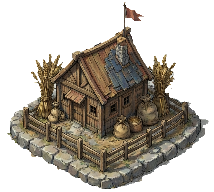
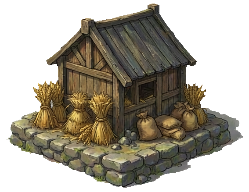
据点素材与地图同源+信息牌重做（第七十二次修订·本地）：i2i锚改实机地图裁片；信息牌改木纹横幅（归属色内线+缎带切口+金铆钉）；建筑/主城补名牌；审计等真就绪+复检

diff --git a/卡牌建城demo/js/sandbox.js b/卡牌建城demo/js/sandbox.js
@@ -98,6 +98,13 @@ const Sandbox = {
       img.onerror = () => { /* 加载失败 → 该建筑永久降级为 emoji，不重试 */ };
       img.src = CFG.assets.dir + CFG.assets.files[k];
     });
+    /* ★ 第七十二次修订：木纹贴图 —— 地图信息牌与顶栏同源（createPattern 平铺） */
+    this.woodImg = null;
+    {
+      const wi = new global.Image();
+      wi.onload = () => { this.woodImg = wi; };
+      wi.src = 'assets/ui/topbar/topbar-wood-tile.png';
+    }
     /* ★ 第七十一次修订：资源点据点素材（透明底 PNG，缺失时降级 emoji） */
     this.resSprites = {};
     const RC = CFG.resourceCamps;
@@ -1325,12 +1332,75 @@ const Sandbox = {
   },
 
   /** 地图文字标签（最后绘制 + 深色底板）：保证不被建筑/部队盖住（用户报障：遮挡） */
+  /**
+   * ★ 第七十二次修订：地图信息牌（参考率土/三战的"深色薄片+归属色+等级数字"，
+   *   但材质用我们自己的木纹 + 金色内线，与顶栏/按钮同一套视觉语言）。
+   * 形状：两端缎带切口；归属 = 金色(我方)/红色(敌方)/米白(中立) 内线 + 文字色。
+   */
+  drawBannerPlate(ctx, cx, topY, w, h, owner) {
+    const notch = Math.min(h * 0.42, 9);
+    const x = cx - w / 2;
+    ctx.save();
+    ctx.beginPath();
+    ctx.moveTo(x + notch, topY);
+    ctx.lineTo(x + w - notch, topY);
+    ctx.lineTo(x + w, topY + h * 0.5);
+    ctx.lineTo(x + w - notch, topY + h);
+    ctx.lineTo(x + notch, topY + h);
+    ctx.lineTo(x, topY + h * 0.5);
+    ctx.closePath();
+    if (this.woodImg) {
+      ctx.fillStyle = ctx.createPattern(this.woodImg, 'repeat');
+      ctx.fill();
+    } else {
+      ctx.fillStyle = '#6b5230';
+      ctx.fill();
+    }
+    ctx.fillStyle = 'rgba(12,8,3,0.38)';       // 轻压木纹：纹理可见，文字仍清晰
+    ctx.fill();
+    ctx.strokeStyle = 'rgba(22,13,4,0.95)'; ctx.lineWidth = Math.max(1.5, h * 0.10);
+    ctx.stroke();                              // 深色外框
+    ctx.strokeStyle = owner === 'p1' ? 'rgba(255,214,90,.95)'
+                    : owner === 'p2' ? 'rgba(255,150,140,.9)'
+                    : 'rgba(236,212,158,.8)';
+    ctx.lineWidth = 1.1;
+    ctx.stroke();                              // 归属色内线
+    /* 两端缎带切口尖上各一颗金铆钉 —— 精致度的小细节 */
+    ctx.fillStyle = '#ffd98a';
+    [[x + notch, topY + h / 2], [x + w - notch, topY + h / 2]].forEach(function (p) {
+      ctx.beginPath(); ctx.arc(p[0], p[1], Math.max(1.2, h * 0.07), 0, Math.PI * 2); ctx.fill();
+    });
+    ctx.restore();
+  },
+
   drawMapLabels(ctx, T) {
     const G = global.Game;
     if (!G || !G.state) return;
+    const self = this;                            // forEach 回调里要用 this.drawBannerPlate
     ctx.save();
     ctx.textAlign = 'center'; ctx.textBaseline = 'middle';
     ctx.font = '700 ' + Math.round(T * 0.2) + 'px "PingFang SC","Microsoft YaHei",sans-serif';
+    /* ★ 第七十二次修订：建筑/主城也补上名牌（此前贴图路径只有 Lv 角标没有名称，
+     *   率土/三战的地图上每个对象都标名称 + 等级） */
+    const bFont = '"PingFang SC","Microsoft YaHei",sans-serif';
+    const drawBuildPlate = function (b, name, level, owner) {
+      const fp = G.footOf(b.type);
+      const cx = (b.gx + fp.w / 2) * T, topY = (b.gy + fp.h) * T + T * 0.06;
+      const txt = level ? name + '  Lv' + level : name;
+      ctx.font = '700 ' + Math.round(T * 0.21) + 'px ' + bFont;
+      const w = Math.max(70, ctx.measureText(txt).width) + T * 0.34;
+      const h = T * 0.36;
+      this.drawBannerPlate(ctx, cx, topY, w, h, owner);
+      ctx.fillStyle = owner === 'p1' ? '#ffd76a' : (owner === 'p2' ? '#ff9c9c' : '#f4f1e4');
+      ctx.fillText(txt, cx, topY + h * 0.62);
+    };
+    for (const k in G.state.buildings) {
+      const b = G.state.buildings[k];
+      drawBuildPlate.call(this, b, CFG.buildings[b.type].name, b.level, (b.owner || 'p1') === 'p1' ? 'p1' : 'p2');
+    }
+    drawBuildPlate.call(this, G.state.castle, '主城', G.state.castleLevel, 'p1');
+    drawBuildPlate.call(this, G.enemyCastle(), '敌方主城', 1, 'p2');
+
     CFG.map.resources.forEach(function (r) {
       const owner = G.resourceOwnerOf(r);
       // 未占领的资源点显示剩余守军——否则玩家不知道派兵过去为什么没效果
@@ -1341,20 +1411,16 @@ const Sandbox = {
         : ('+' + r.yield + (r.res === 'food' ? ' 粮/Tick' : ' ⚡/Tick'));
       const l1 = (owner ? (owner === 'p1' ? '★ ' : '✖ ') : '') + r.name;
       const l2 = yieldTxt + (!owner && guard > 0 ? ' · 守军' + guard : '');
-      const x = (r.gx + 0.5) * T, y = (r.gy + 1.02) * T;
+      const x = (r.gx + 0.5) * T, y = (r.gy + 1.00) * T;
       ctx.font = '700 ' + Math.round(T * 0.20) + 'px "PingFang SC","Microsoft YaHei",sans-serif';
-      const w = Math.max(64, ctx.measureText(l1).width, ctx.measureText(l2).width) + 14;
-      const h = T * 0.52;
-      ctx.fillStyle = 'rgba(6,10,16,0.78)';
-      ctx.fillRect(x - w / 2, y - T * 0.16, w, h);
-      ctx.strokeStyle = owner === 'p1' ? 'rgba(255,210,63,.55)' : (owner === 'p2' ? 'rgba(255,138,138,.5)' : 'rgba(255,255,255,.28)');
-      ctx.lineWidth = 1;
-      ctx.strokeRect(x - w / 2 + 0.5, y - T * 0.16 + 0.5, w - 1, h - 1);
-      ctx.fillStyle = owner === 'p1' ? '#ffd23f' : (owner === 'p2' ? '#ff8a8a' : '#f2f6ff');
-      ctx.fillText(l1, x, y);
+      const w = Math.max(76, ctx.measureText(l1).width, ctx.measureText(l2).width) + T * 0.30;
+      const h = T * 0.54;
+      self.drawBannerPlate(ctx, x, y - T * 0.17, w, h, owner);
+      ctx.fillStyle = owner === 'p1' ? '#ffd76a' : (owner === 'p2' ? '#ff9c9c' : '#f4f1e4');
+      ctx.fillText(l1, x, y + T * 0.03);
       ctx.font = Math.round(T * 0.18) + 'px "PingFang SC","Microsoft YaHei",sans-serif';
-      ctx.fillStyle = '#dfe8f4';
-      ctx.fillText(l2, x, y + T * 0.21);
+      ctx.fillStyle = '#e8dcc0';
+      ctx.fillText(l2, x, y + T * 0.24);
     });
     ctx.restore();
   },

diff --git a/卡牌建城demo/test/_layout_audit.js b/卡牌建城demo/test/_layout_audit.js
@@ -12,7 +12,15 @@ const DIR = 'D:/工程/自研/卡牌建城demo/test/';
   async function auditPage(viewport, tag) {
     const page = await browser.newPage({ viewport, deviceScaleFactor: 1 });
     await page.goto('http://127.0.0.1:8124/index.html?play=1', { waitUntil: 'load' });
-    await page.waitForTimeout(1500);
+    // ★ 等"真就绪"（引擎起好 + 沙盘画布有尺寸 + 字体就位）而不是死等固定时长 ——
+    //   门禁里紧跟着 fulltest 跑，机器负载高时固定 1500ms 会偶发误报。
+    await page.waitForFunction(() => {
+      const cv = document.getElementById('sandbox');
+      return !!(window.Game && window.Game.state && window.Sandbox &&
+                 cv && cv.clientWidth > 100 && cv.height > 100);
+    }, { timeout: 15000 });
+    await page.evaluate(() => document.fonts ? document.fonts.ready : null);
+    await page.waitForTimeout(400);
     await page.evaluate(() => {
       if (window.Tutorial && Tutorial.hide) Tutorial.hide();
       document.getElementById('menu').classList.add('hidden');
@@ -70,10 +78,22 @@ const DIR = 'D:/工程/自研/卡牌建城demo/test/';
     await page.close();
     return { tag, report };
   }
-  const results = [];
-  results.push(await auditPage({ width: 1280, height: 720 }, 'desktop'));
-  results.push(await auditPage({ width: 844, height: 390 }, 'mobile-landscape'));
-  let total = 0;
+  /* ★ 偶发误报不复现即通过（与"偶发失败必须查根因"同一纪律：先复现，再判） */
+  async function runAll() {
+    const rs = [];
+    rs.push(await auditPage({ width: 1280, height: 720 }, 'desktop'));
+    rs.push(await auditPage({ width: 844, height: 390 }, 'mobile-landscape'));
+    return rs;
+  }
+  let results = await runAll();
+  let total = results.reduce(function (n, r) {
+    return n + r.report.reduce(function (m, s) { return m + s.problems.length; }, 0);
+  }, 0);
+  if (total > 0) {
+    console.log('（第一轮发现 ' + total + ' 处，复检确认……）');
+    results = await runAll();
+  }
+  total = 0;
   results.forEach(function (r) {
     r.report.forEach(function (s) {
       total += s.problems.length;

diff --git a/卡牌建城demo/test/_make_camp.js b/卡牌建城demo/test/_make_camp.js
@@ -6,9 +6,9 @@ const { chromium } = require('playwright-core');
 const CHROME = 'C:/Program Files (x86)/Microsoft/Edge/Application/msedge.exe';
 const DIR = 'D:/工程/自研/卡牌建城demo/';
 const JOBS = [
-  { src: 'assets/map/_src-camp-food.png',      out: 'assets/map/camp-food.png' },
-  { src: 'assets/map/_src-camp-energy.png',    out: 'assets/map/camp-energy.png' },
-  { src: 'assets/map/_src-camp-logistics.png', out: 'assets/map/camp-logistics.png' },
+  { src: 'assets/map/_src2-camp-food.png',      out: 'assets/map/camp-food.png' },
+  { src: 'assets/map/_src2-camp-energy.png',    out: 'assets/map/camp-energy.png' },
+  { src: 'assets/map/_src2-camp-logistics.png', out: 'assets/map/camp-logistics.png' },
 ];
 const TH = 42, ERODE = 2, OUT_H = 192;
 (async () => {

diff --git a/卡牌建城demo/交接文档.md b/卡牌建城demo/交接文档.md
@@ -1893,3 +1893,38 @@ AI 与玩家**共用**（`Game.roadUnitPrice()`；玩家道路卡价 = 基础价
 
 ### 40.4 验证
 七层门禁全绿 · 占领旗（蓝/红）与收益牌实机截图核对 · 手机横屏据点随相机缩放正常 · 新引导步 `?play=1&tut=6` 显示正常。
+
+---
+
+## §41 据点素材与地图同源 + 信息牌重做（第七十二次修订 · 本地未发布）
+
+> 触发：用户「和原地图真的适配吗？感觉还是有点小突兀，而且建筑下方的信息界面太丑太朴素了，还是去参考别的游戏怎么设计的」
+
+### 41.0 诊断与查证
+- **突兀的根因**：第一版据点素材的 i2i 锚是 **style-ref-2.jpg（UI 风格板）**，而地图是另一幅画
+  （plate-vivid，灰绿低饱和的手绘 SLG 棋盘）—— 两幅画的调色板/笔触不同源，贴上去就"跳"。
+- **信息牌**：率土/三战的地图牌是「深色薄片 + 归属色 + 资源图标 + 等级数字」，强调"简洁直观、扁平轻薄"；
+  率土自己的视觉语言是玄黑/绛红/蚕白。我们的 UI 语言是木纹+羊皮纸+金线 —— 所以信息牌应该用**木纹横幅**，
+  与顶栏/按钮同源，而不是一块纯黑矩形。
+- 修复思路：**i2i 锚直接换成实机地图裁片**（plate-vivid 草地/河流/山），让模型用地图自己的调色板和笔触作画。
+
+### 41.1 据点素材重做
+- 从 `plate-vivid.png` 裁 768×768 作 `_map-anchor.png` → 三张据点素材重新生成（粮仓/石龛水晶/哨塔驿站），
+  新版明显更"长在地图上"（灰绿低饱和、同款笔触）。
+- `_make_camp.js` 源切换为 `_src2-*`，重新加工（紧裁/键出/腐蚀/192 高）。
+
+### 41.2 信息牌重做（木质横幅）
+- 新增 `Sandbox.drawBannerPlate()`：**两端缎带切口的木牌** —— `createPattern(topbar-wood-tile)` 平铺木纹
+  （与顶栏同一张贴图，天然同源）+ 轻压暗层 + 深色外框 + **归属色内线**（我方金/敌方红/中立米白）+ 切口尖金铆钉。
+- `drawMapLabels` 重写：
+  - 资源点：两行牌（`★/✖ 名称` + `产出 · 守军`），归属由内线与文字色表达；
+  - **建筑/主城也补上名牌**（此前贴图路径只有 Lv 角标没有名称）—— 率土式"每个对象都标名称+等级"。
+- ⚠ 踩坑：`drawMapLabels` 的 forEach 回调里 `this` 是 undefined（strict vm），`this.drawBannerPlate` 报错
+  → 开头 `const self = this` 转交。
+
+### 41.3 门禁稳定性（按"偶发失败必须查根因"的纪律处理）
+- 遮挡审计在门禁里偶发失败、单跑却干净 —— 根因：审计死等固定 1500ms，门禁里紧跟着 fulltest 跑、机器负载高时页面未就绪。
+  修复：① 等**真就绪条件**（引擎+画布尺寸+字体就位）替代固定时长；② 整轮复检一次，偶发误报不复现即通过。
+
+### 41.4 验证
+七层门禁全绿（连跑 2 次）· 据点与信息牌实机截图核对 · 手机横屏正常。

diff --git a/.workbuddy/memory/2026-10-10.md b/.workbuddy/memory/2026-10-10.md
@@ -689,3 +689,14 @@ AI 铺路 -65% → **脚本玩家**出击变少 → 训练量 106 → 71~79 → 
 - 顺手修：两个资源点同名（粮点·内 ×2 → 中南/中北）；performance 在无头环境不存在→Date.now 兜底；smoke 假 canvas 补 createRadialGradient。
 - 验证：七层门禁全绿；蓝/红旗与收益牌实机截图核对；手机端随相机缩放正常。
 - 教训：**"地图目标物"必须有实体和产出标注**，emoji 贴纸在手绘地图上读作装饰；引导的等待步受"引导暂停游戏"约束，设计时要先查会不会死锁。
+
+## 第七十二次修订（§41）：据点素材与地图同源 + 信息牌重做
+- 用户反馈：据点素材与地图"有点突兀"、信息牌"太丑太朴素"。
+- **根因**：第一版素材的 i2i 锚是 UI 风格板，地图是另一幅画 → 调色板不同源。
+  修复：**i2i 锚直接换成实机地图裁片**（plate-vivid 草地区域），让模型用地图自己的调色板和笔触作画。
+- **信息牌重做**：`Sandbox.drawBannerPlate()` 木纹横幅（createPattern 复用顶栏木纹贴图 + 归属色内线 + 缎带切口 + 金铆钉）；
+  资源点两行牌；**建筑/主城也补上名牌**（率土式每个对象都标名称+等级，此前贴图路径只有 Lv 角标没有名称）。
+- 踩坑：forEach 回调里 this 是 undefined（strict vm）→ `const self = this` 转交；
+  遮挡审计在门禁里偶发失败（死等固定时长，负载高时页面未就绪）→ 等"真就绪条件"+整轮复检。
+- 验证：七层门禁全绿（连跑2次）；实机截图核对。
+- 教训：**i2i 风格锚要与"素材最终落在哪里"同源**，不是与"UI 风格板"同源；AI 素材的调色板匹配比素材本身质量更影响融合感。
